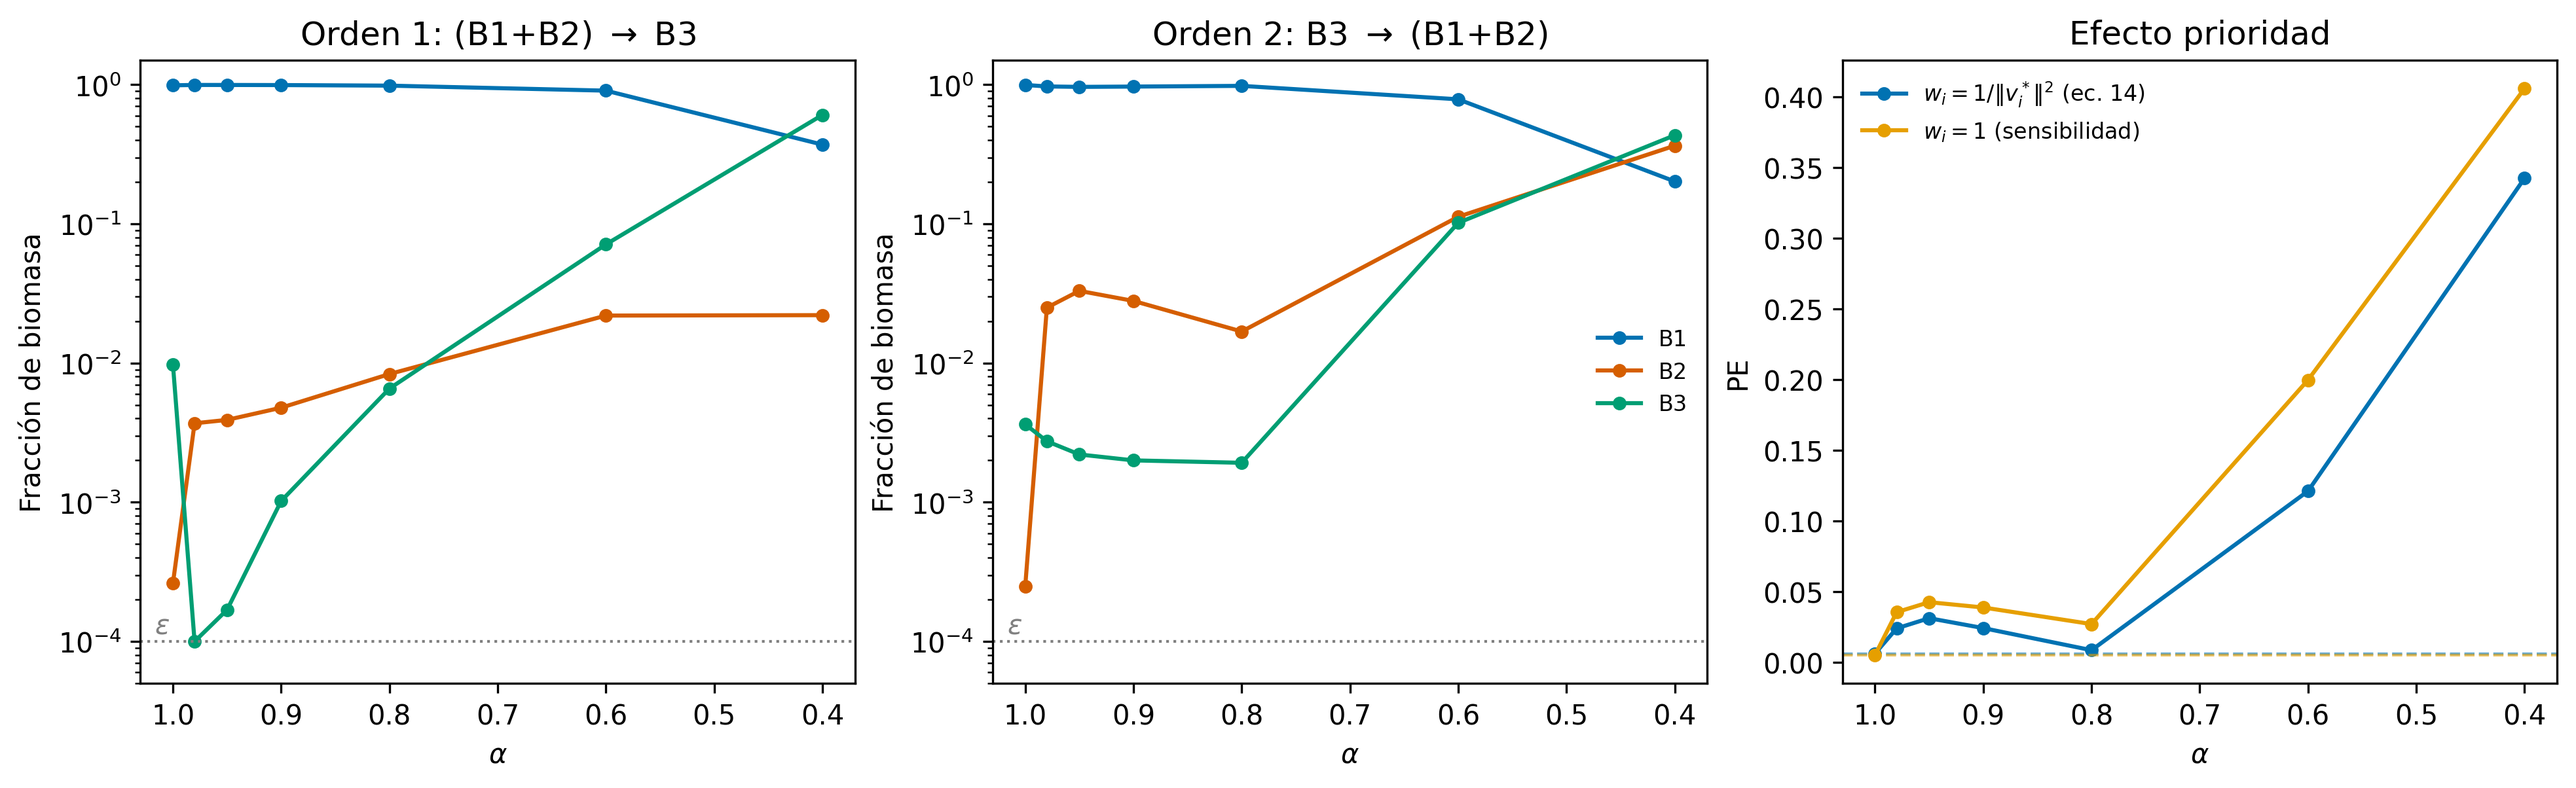
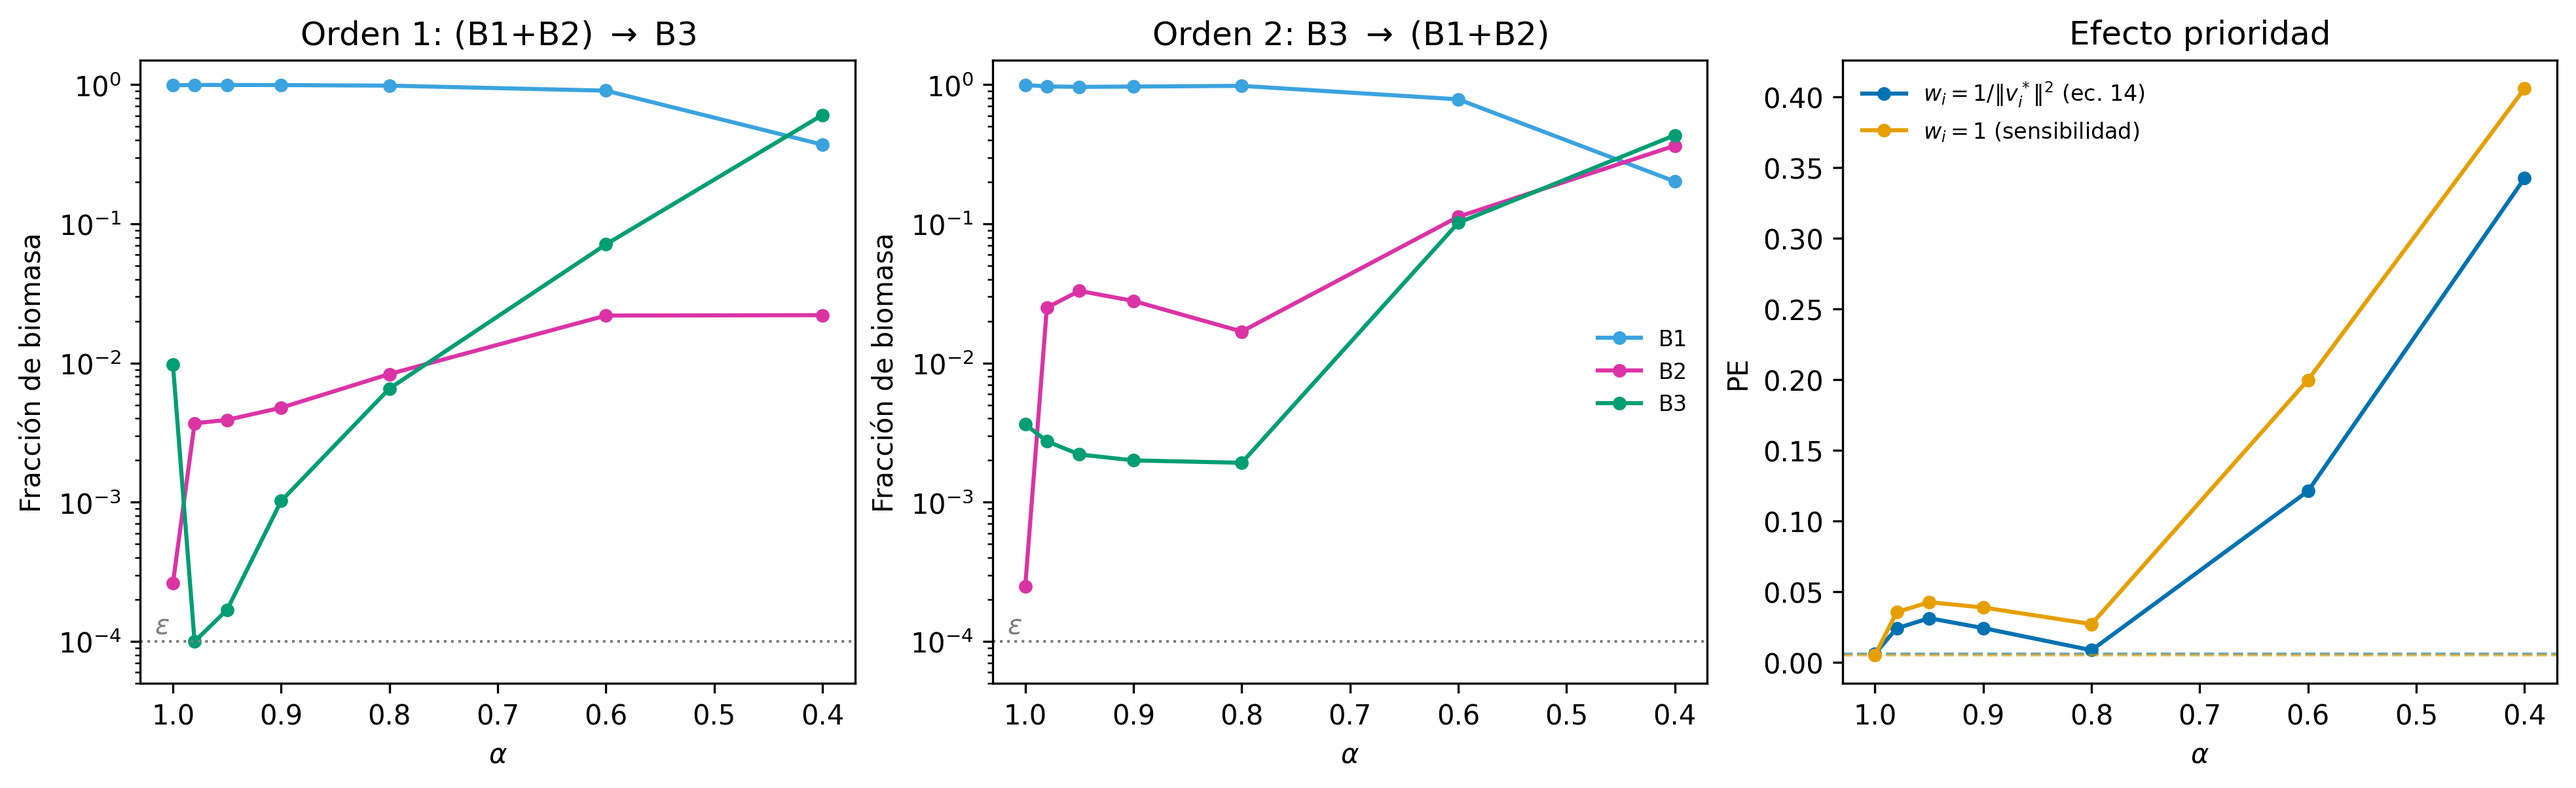
resultados preliminares finales

diff --git a/toy.py b/toy.py
@@ -2,7 +2,7 @@ import community_moma as cm
 import cobra
 from reframed import from_cobrapy, FBA
 import matplotlib.pyplot as plt
-from utils import tabla, silencio
+from utils import tabla, silencio, tabla_delta
 import figuras
 
 # FBA de cobrapy para verificar resultados obtenidos con reframed
@@ -120,6 +120,12 @@ if __name__ == "__main__":
         if r["estado"] == "ok":
             print(f"\nCosto ponderado por especie, alpha=0.9, {orden}:",
                   {o: f"{c:.3e}" for o, c in r["costo_esp"].items()})
+
+    # Tabla Delta y costo metabólico (ec. 11 y 15)
+    print("\n=== Δ y costo metabólico (pesos normalizados) ===")
+    tabla_delta(res_n)
+    print("\n=== Δ y costo metabólico (pesos unitarios) ===")
+    tabla_delta(res_u)
 
     # Figuras
     figuras.figura_resultados(res_n, res_u, "fig_resultados", escala="log")

diff --git a/utils.py b/utils.py
@@ -20,3 +20,12 @@ def tabla(res, nd=3):
     for f in res["filas"]:
         pe = "-" if f["PE"] is None else f"{f['PE']:.3f}"
         print(f"{f['alpha']:>6.3f} | {celda(f['orden1']):<34} | {celda(f['orden2']):<34} | {pe:>5}")
+
+def tabla_delta(res, nd=3):
+    """Δ (ec. 15) y costo metabólico (ec. 11). Δ del orden 2 es 0 por construcción (1 residente)."""
+    fmt = lambda x: "-" if x is None else f"{x:.{nd}f}"
+    sci = lambda x: "-" if x is None else f"{x:.2e}"
+    print(f"{'alpha':>6} | {'Δ orden 1':>10} | {'costo o1':>10} | {'costo o2':>10}")
+    for f in res["filas"]:
+        print(f"{f['alpha']:>6.3f} | {fmt(f['d1']):>10} | "
+              f"{sci(f['orden1']['costo']):>10} | {sci(f['orden2']['costo']):>10}")

diff --git a/figuras.py b/figuras.py
@@ -1,6 +1,6 @@
 import matplotlib.pyplot as plt
 
-COLORES = {"B1": "#0072B2", "B2": "#D55E00", "B3": "#009E73"}
+COLORES = {"B1": "#3BA3DF", "B2": "#DB33A6", "B3": "#009E73"}
 ETIQ_N = r"$w_i=1/\|v_i^*\|^2$ (ec. 14)"
 ETIQ_U = r"$w_i=1$ (sensibilidad)"
 
